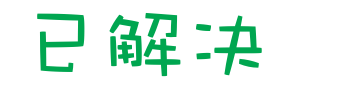
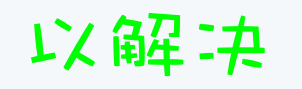
asdasd

Changed region(s): [[0.0894, 0.1348, 0.894, 0.8764]]

diff --git a/src/components/javaListProblems/content/ContentProblem.vue b/src/components/javaListProblems/content/ContentProblem.vue
@@ -30,7 +30,13 @@
                     <div  :id="data.id" v-html="data.showContent" style="min-height: 15em;">
 
                     </div>
-                    <img src="../../../assets/images/resolved.png" />
+
+                    <div  v-if="data.problemstate == 'resolved'">
+                      <img  src="../../../assets/images/resolved.png" />
+                    </div>
+                    <div v-else>
+                      <img  src="../../../assets/images/unsolved.png" />
+                    </div>
                   </el-col>
               </el-row>
               </div>
@@ -176,7 +182,6 @@
           })
           return;
         }
-
         if(this.data.creator != this.$Const.localStoreObj.getUser().id){
           this.$notify.error({
             title: '警告',
@@ -184,7 +189,7 @@
           })
           return;
         }
-        this.$Const.doPost('iProblem/Problem/saveProblemreply',this.problemreply,this.sbmitReplyPost)
+      this.$Const.doPost('iProblem/Problem/saveReplyAdopt',this.problemreply,null)
       },
 
     },
